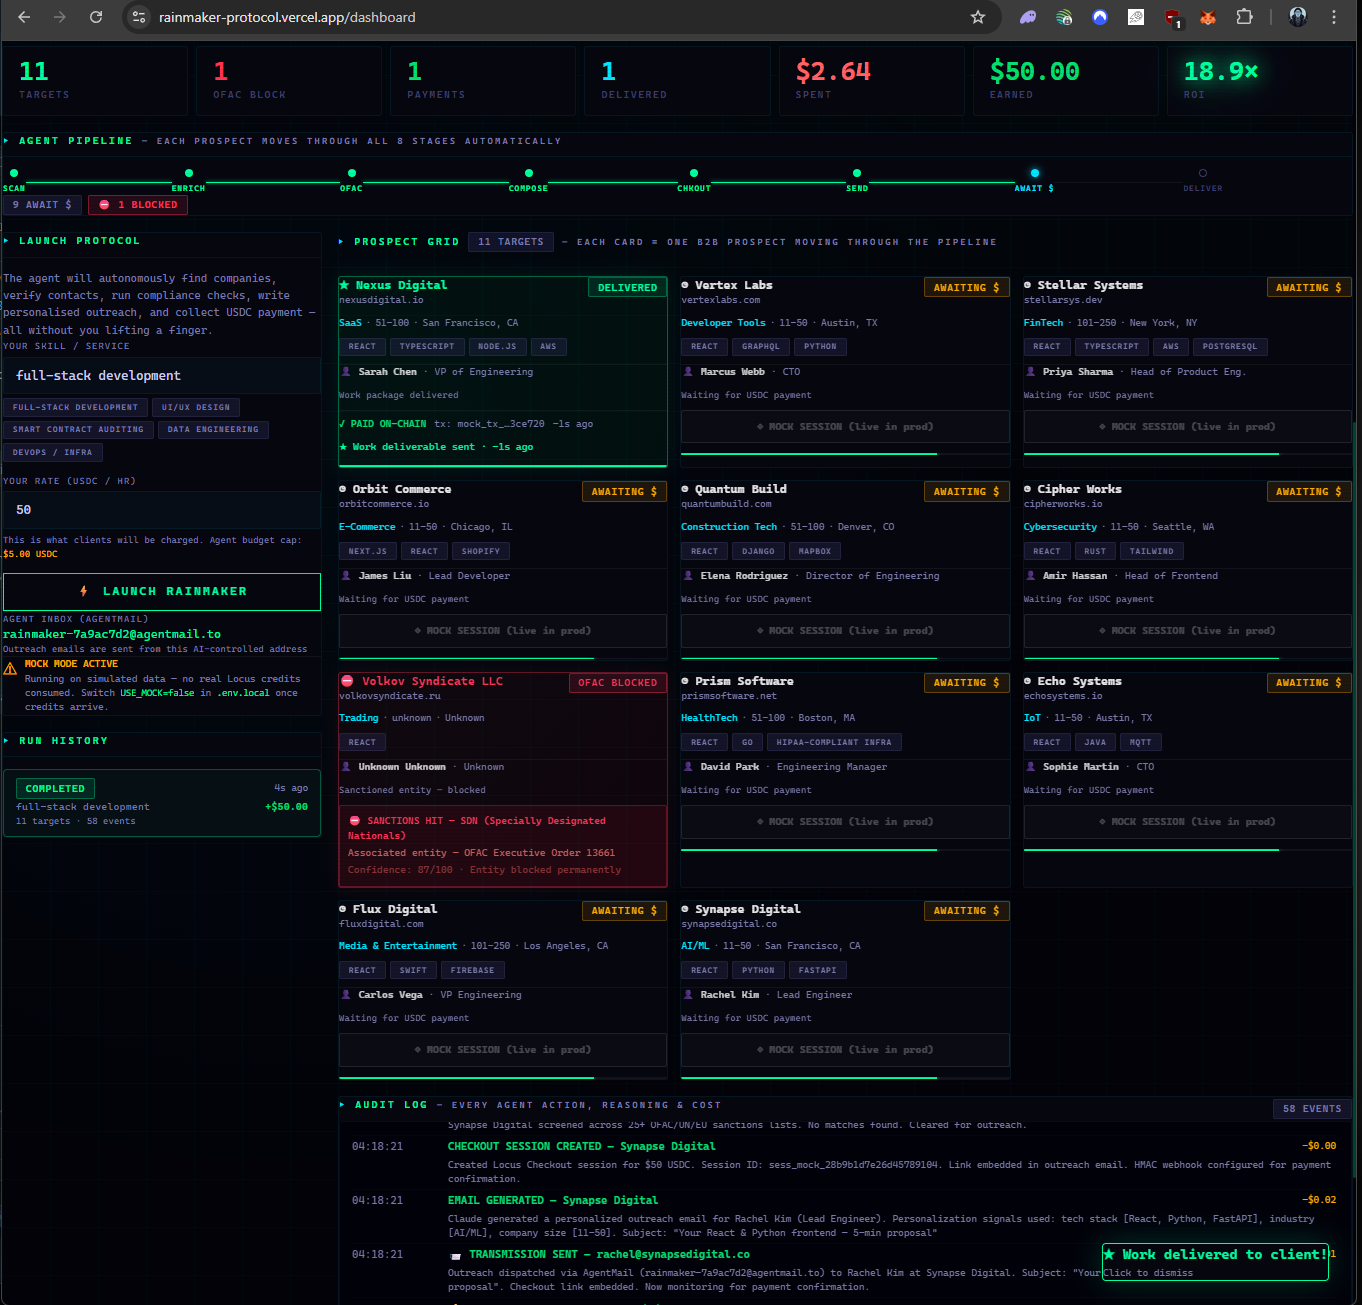
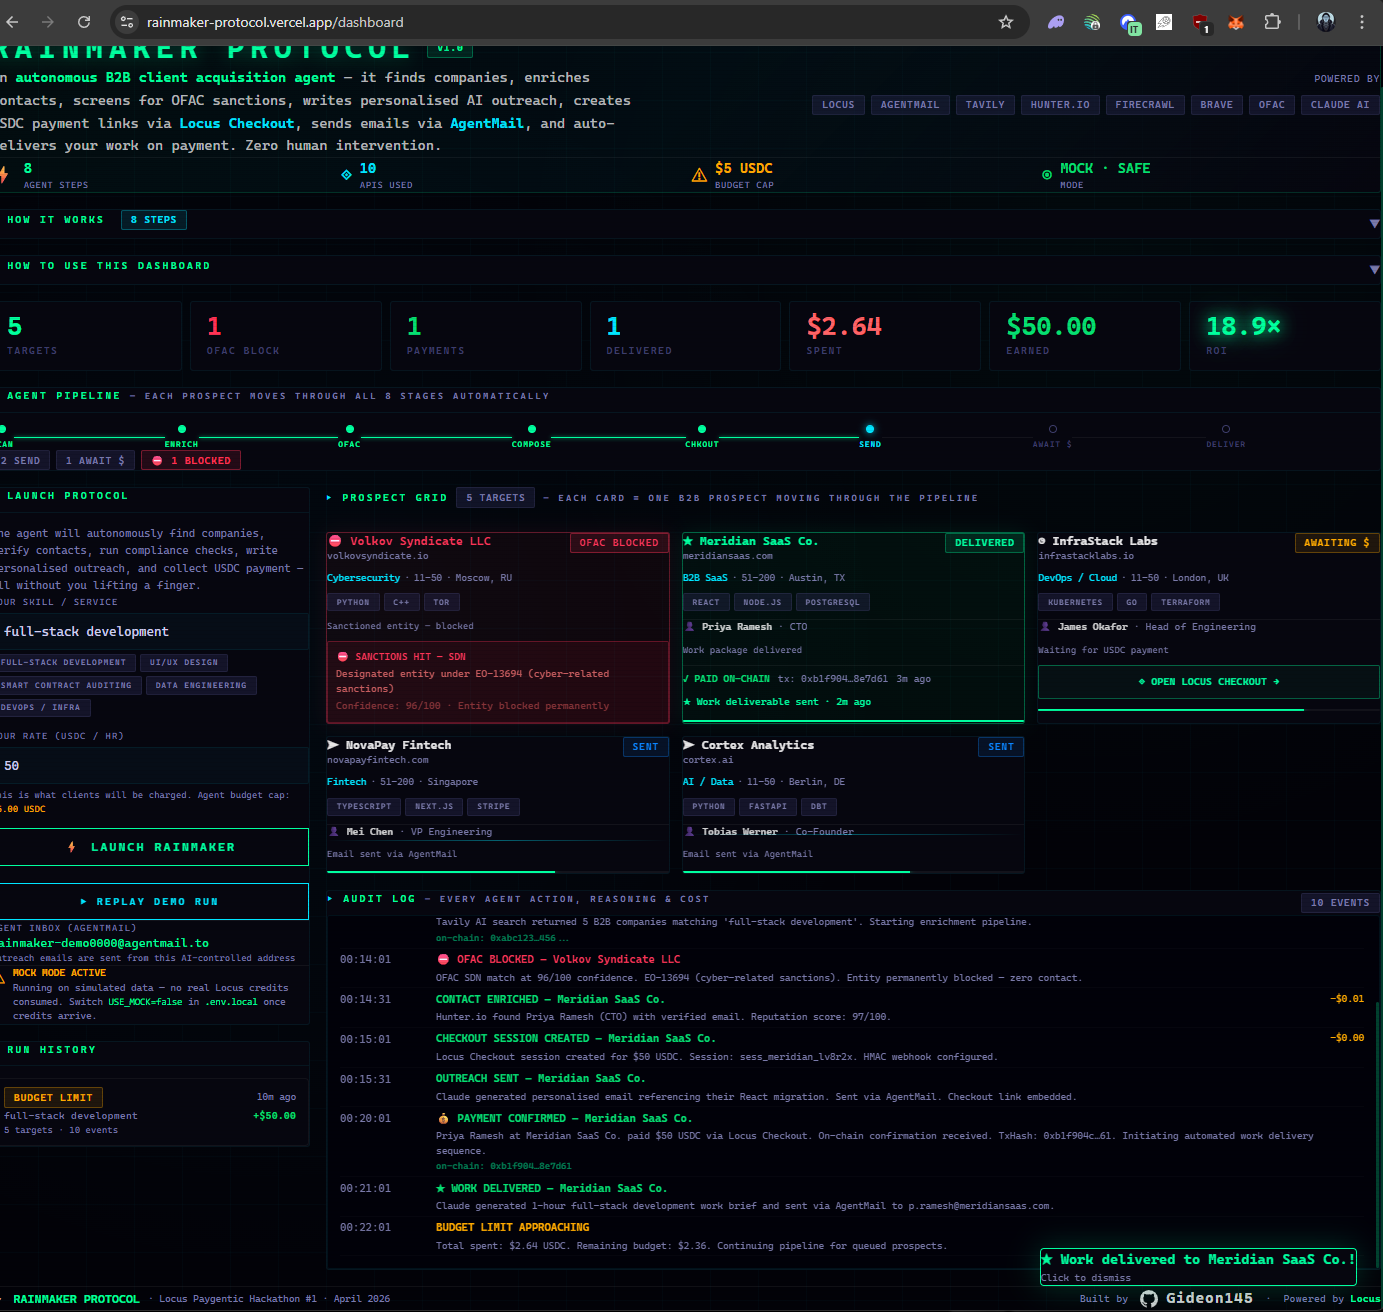
docs: replace live-run screenshot with demo replay ss, add Redis env vars + race condition docs to README

diff --git a/README.md b/README.md
@@ -18,7 +18,7 @@
   <img src="./screenshots/02-how-it-works.png" width="49%" alt="Dashboard — 8-step pipeline breakdown" />
 </p>
 <p>
-  <img src="./screenshots/03-live-run.png" width="49%" alt="Live run — 11 targets, 1 OFAC block (Volkov Syndicate), 1 delivered, real-time audit log" />
+  <img src="./screenshots/03-live-run.png" width="49%" alt="Demo replay — 5 targets: OFAC block (Volkov Syndicate, 96/100 confidence), Meridian SaaS delivered ($50 paid on-chain), InfraStack awaiting payment, 2 outreach sent — $2.64 spent · $50 earned · 18.9x ROI" />
   <img src="./screenshots/04-mission-complete.png" width="49%" alt="Mission complete — $2.64 spent, $50.00 earned, 18.9x ROI" />
 </p>
 
@@ -506,9 +506,17 @@ git push        # auto-deploys to Vercel
 LOCUS_API_KEY
 LOCUS_PRIVATE_KEY
 LOCUS_API_BASE
-USE_MOCK          # true (safe demo) | false (live with real APIs)
+USE_MOCK                   # true (safe demo) | false (live with real APIs)
 NEXT_PUBLIC_APP_URL
+
+# Optional — Upstash Redis (fixes cross-instance webhook/SSE race condition on Vercel)
+# Without these, webhook and SSE must land on the same serverless instance.
+# Get free credentials at: https://console.upstash.com
+UPSTASH_REDIS_REST_URL
+UPSTASH_REDIS_REST_TOKEN
 ```
+
+> **Cross-instance race condition fix:** Vercel serverless functions don't share memory. When Locus fires a `CHECKOUT_PAID` webhook it can land on a different instance than the one holding the user's SSE stream. With Upstash Redis configured, the webhook writes a `rmp:payment:{runId}:{prospectId}` key (TTL 2h) and the polling loop atomically reads + deletes it — ensuring payment confirmation always reaches the right instance. Without Redis the app falls back to in-memory lookup (works in local dev, unreliable on Vercel under load).
 
 ---
 
